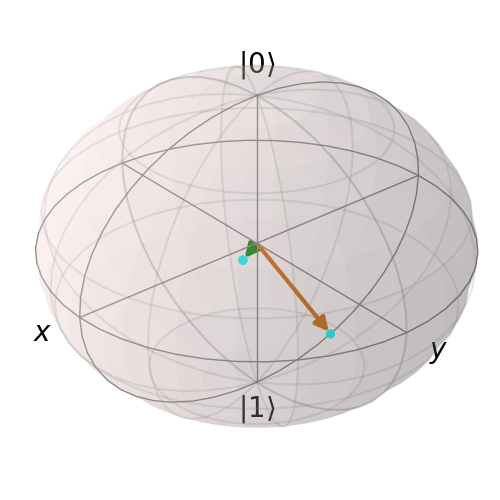
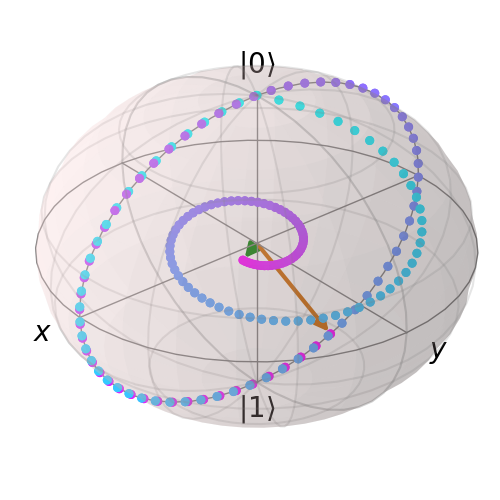
ok got it to plot multiple points and have the points stay on the gif

diff --git a/bloch.py b/bloch.py
@@ -44,7 +44,7 @@ def animate_bloch_states(states, save_file, duration=0.1, save_all=False):
     # calling gui.py file -> passing in the gif
     gui.main(save_file)
 
-def plot_state_vectors (states, save_file):
+def plot_state_vectors (states, save_file): #no animation, just show an image of multiple state vectors on the bloch sphere
     save_file += '.png'
     b = Bloch()
     b.view = [-40, 30]
@@ -100,11 +100,15 @@ def animate_multiple_states(vect_complex_arr, save_file, numV, duration=0.1, sav
             if (j < curr_vect_len):
                 curr_vect_complex_arr.append(vect_complex_arr[k][j])
             else:
-                curr_vect_complex_arr.append(vect_complex_arr[curr_vect_len-1]) #animation for current vector done, make it static
+                curr_vect_complex_arr.append(vect_complex_arr[k][curr_vect_len-1]) #animation for current vector done, make it static
         b.add_states(curr_vect_complex_arr) #add all state vectors to bloch animation
-
-        for l in range (len (curr_vect_complex_arr)): #add points for each state vector
-            b.add_states(curr_vect_complex_arr[:(l + 1)], 'point')
+        
+        for l in range (numV): #add points for each state vector
+            curr_vect_len = len(vect_complex_arr[l])
+            if (j < curr_vect_len):
+                b.add_states(vect_complex_arr[l][:(j + 1)], 'point')
+            else:
+                b.add_states(vect_complex_arr[l][:((curr_vect_len-1)+1)], 'point')
 
         if save_all:
             b.save(dirc='tmp')  # saving images to tmp directory
